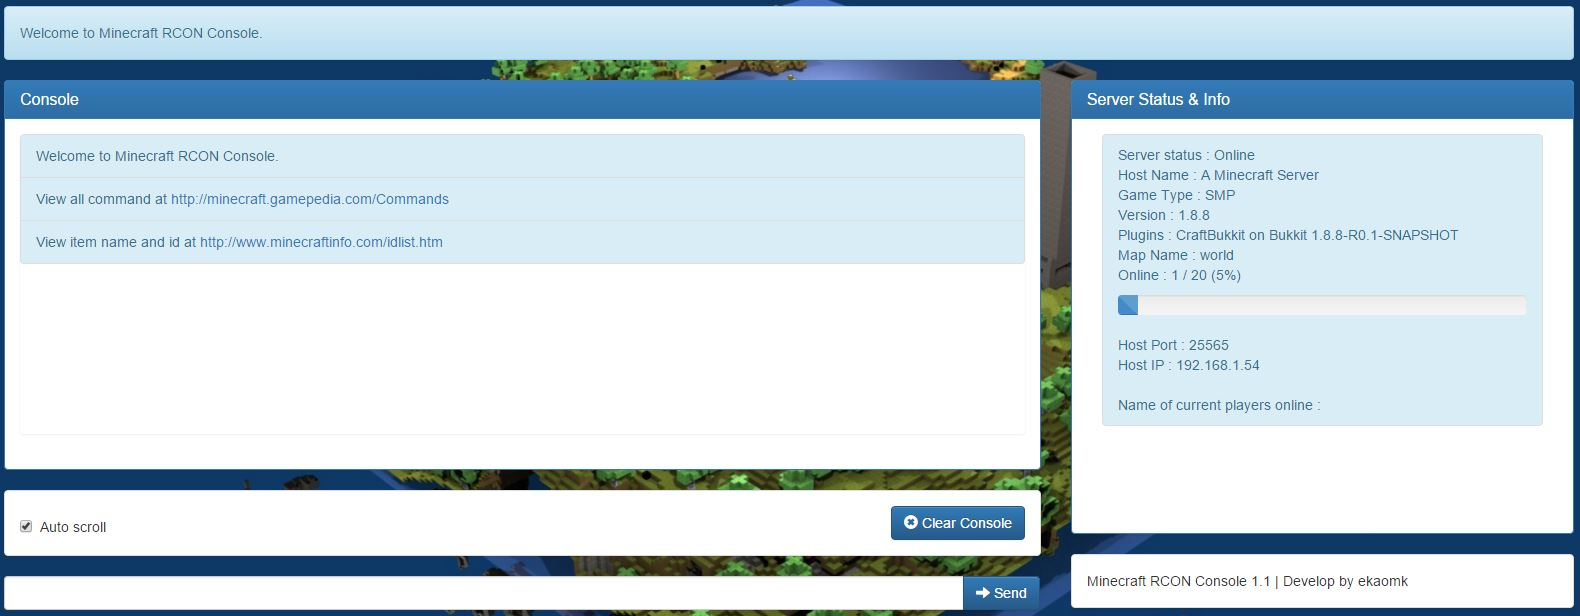
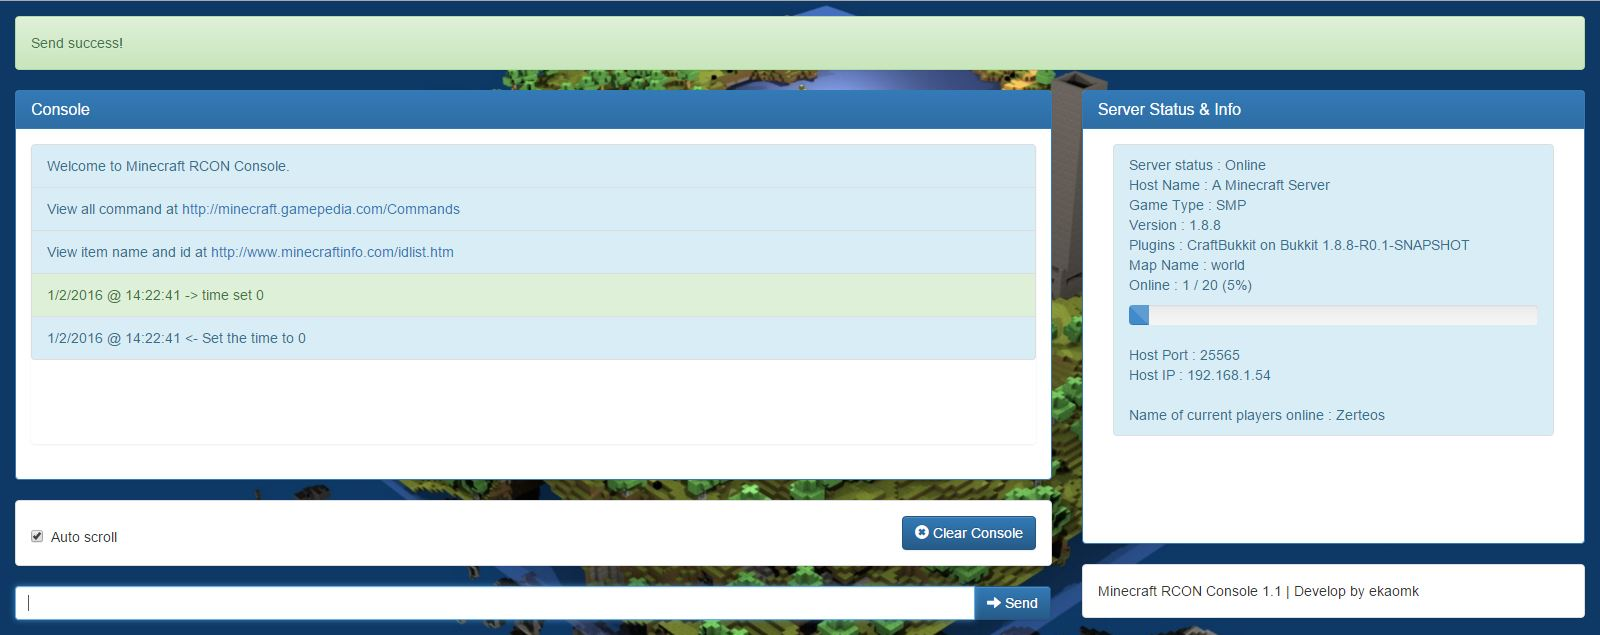
* fix player list not working * change pc screenshot

diff --git a/query/status.php b/query/status.php
@@ -109,29 +109,11 @@ This file is part of Minecraft-RCON-Console.
 			//////////////////////////////////////////////////////
 			echo "<br>";
 
-			$params="case=getplayers";
-
-			$ch = curl_init( $url );
-			curl_setopt( $ch, CURLOPT_POST, 1);
-			curl_setopt( $ch, CURLOPT_POSTFIELDS, $params);
-			curl_setopt( $ch, CURLOPT_FOLLOWLOCATION, 1);
-			curl_setopt( $ch, CURLOPT_HEADER, 0);
-			curl_setopt( $ch, CURLOPT_RETURNTRANSFER, 1);
-
-			$purejson = curl_exec( $ch );
-
-			$allPlayer = "";
-			$json = json_decode($purejson);
-			if($json != false){
-				foreach ($json as &$value) {
-					$allPlayer .= $value;
-					$allPlayer .= ",";
-				}
+			echo "Name of current players online : ";
+			foreach ($json->players as $key => $value) {
+				echo $value;
+				if($key != count($json->players) - 1) echo ', ';
 			}
-
-			$allPlayer = rtrim($allPlayer, ",");
-
-			echo "Name of current players online : ". $allPlayer;
 
 			?>
 		</div>
